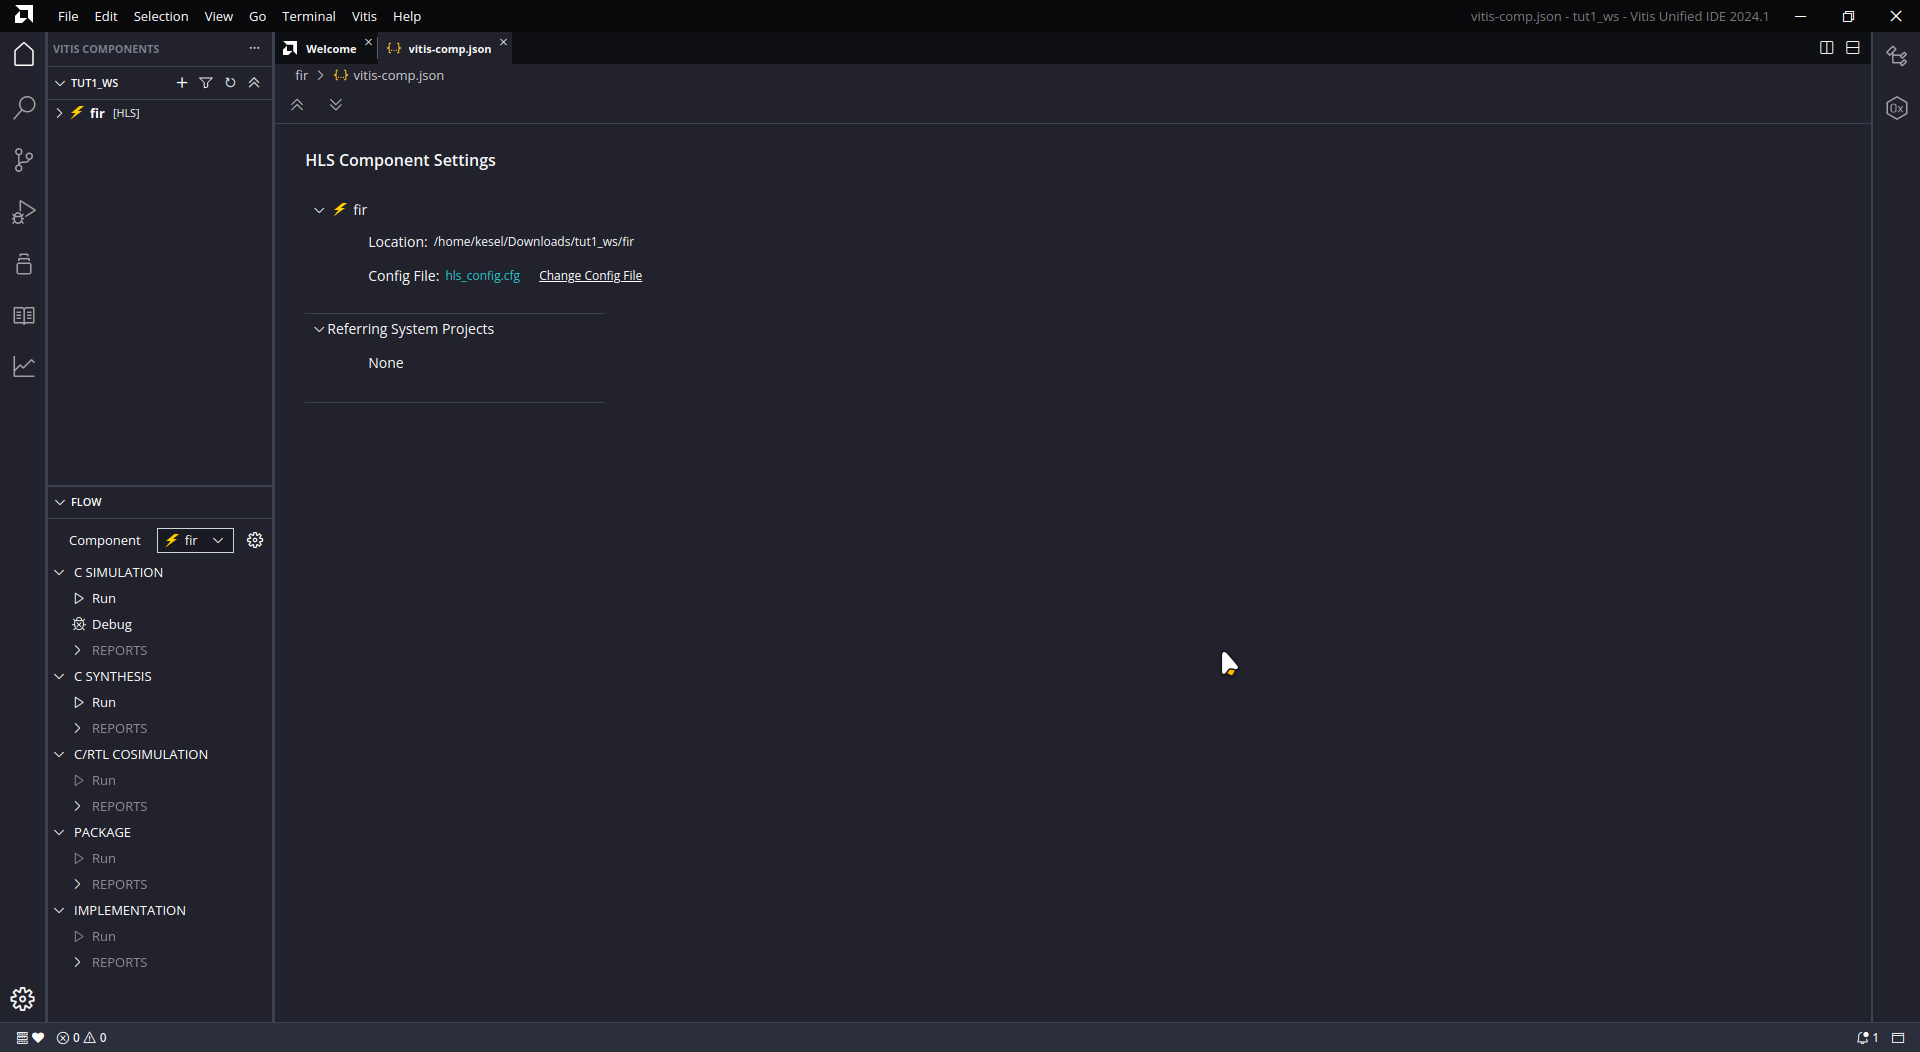
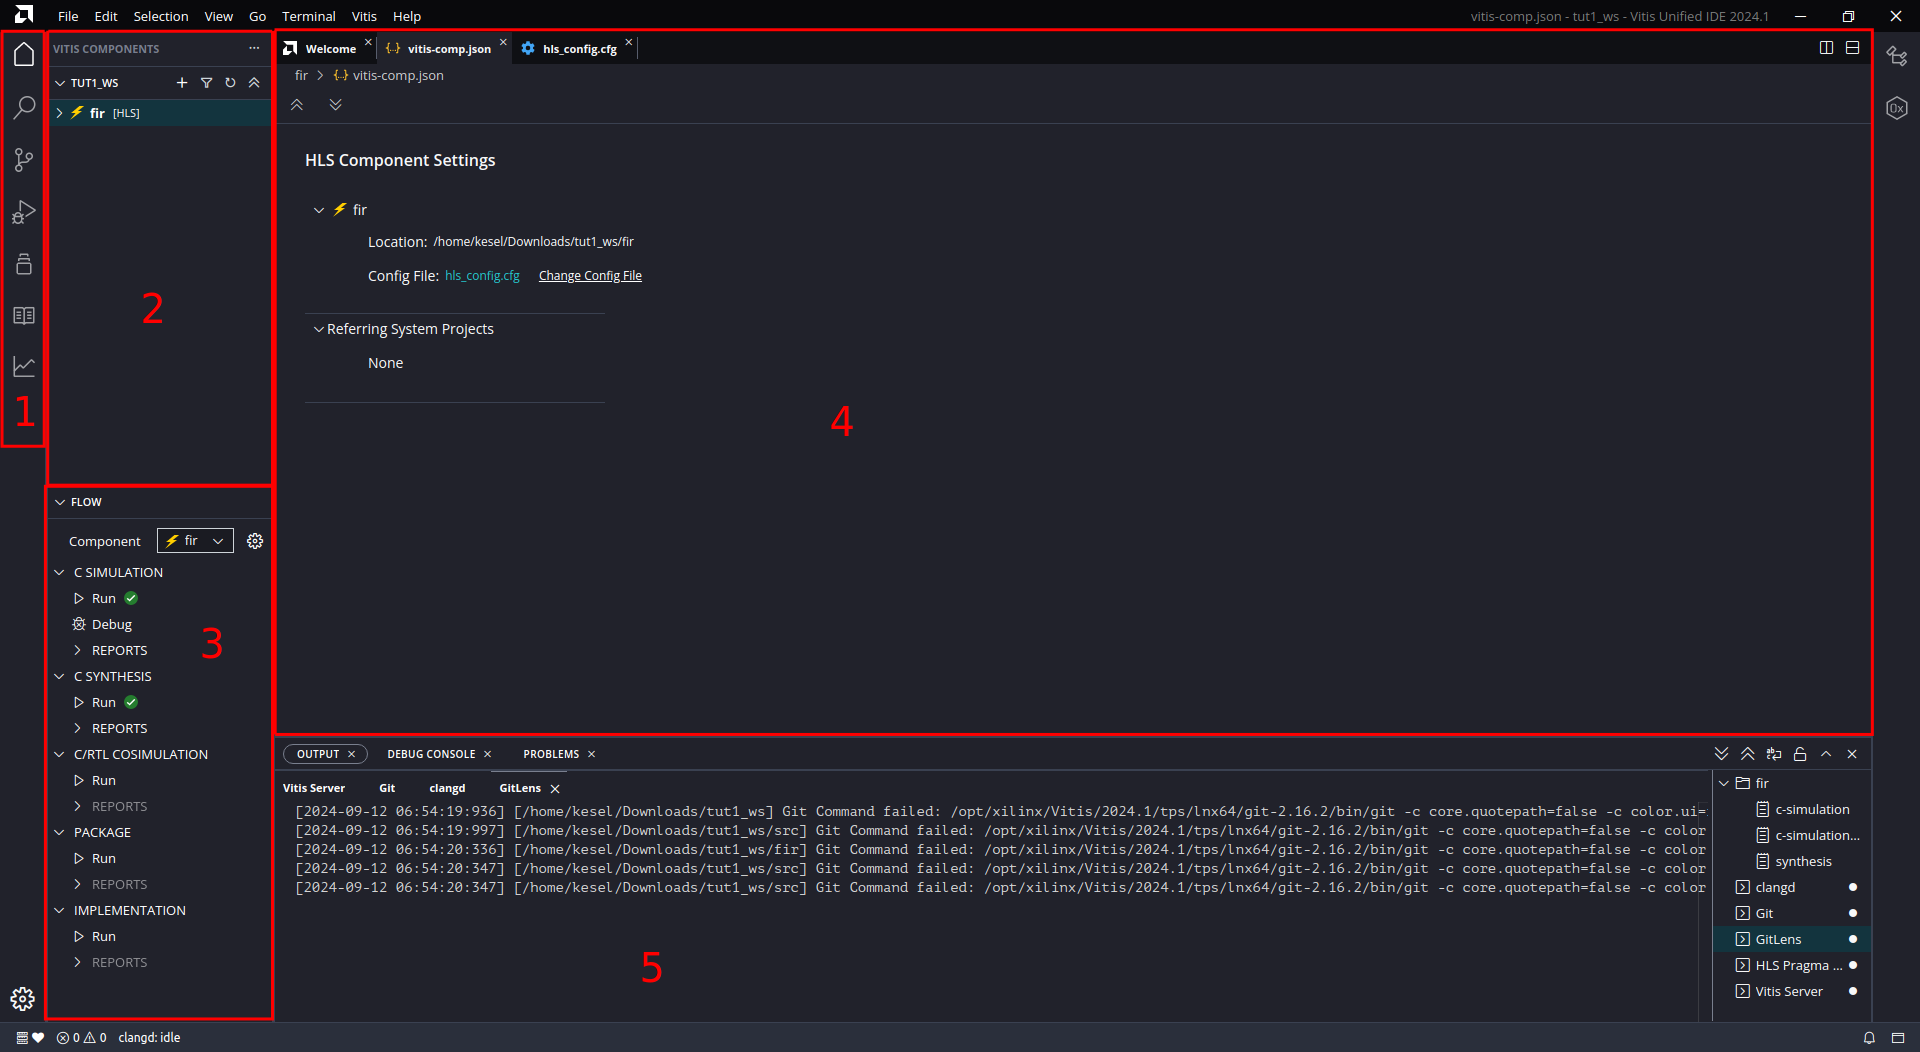
Added content

diff --git a/vitis_hls/tutorial_01/tutorial_01.md b/vitis_hls/tutorial_01/tutorial_01.md
@@ -37,7 +37,7 @@ vitis  -w <workspace>
 ```
 
 * Or you can start the Vitis GUI without a workspace with the command `vitis` on the command line and select an existing workspace in the Vitis GUI.
-* For the tutorial make a folder with the file manager (for example in your home directory) to be used as a workspace and start the Vitis GUI as described above. You should see the Vitis GUI as shown in the following image.
+* For the tutorial make a folder with the file manager (for example in your home directory) to be used as a workspace and start the Vitis GUI as described above. You should see the Vitis GUI as shown in the following image (There are already some recent workspaces in the image which you will not see when you open your Vitis IDE).
 
 ![Vitis GUI](images/hls_01.png)
 
@@ -46,12 +46,12 @@ vitis  -w <workspace>
 
 * With the Vitis IDE opened, from the main menu select `File > New Component > HLS` 
 	* You can also select `Create HLS Component` on the navigation pane on the left side or on the Welcome page in the _HLS Development_ section.
-* This opens the _Choose Name and Location_ page of the _Create HLS Component_ wizard. Enter the component name (`fir`) and location (i.e. the workspace folder) and then push `Next`. The workspace should be the folder which you created as workspace.
+* This opens the _Choose Name and Location_ page of the _Create HLS Component_ wizard, as shown in the image below. Enter the component name (`fir`) and location (i.e. the workspace folder) and then push `Next`. The workspace should be the folder which you created as workspace.
 
 ![Create HLS component](images/hls_02.png)
 
 
-* This opens the Configuration File page of the wizard as shown below. The HLS component configuration file contains commands and directives used for the synthesis, simulation, and export of the component.
+* This opens the _Configuration File_ page of the wizard as shown below. The HLS component configuration file contains commands and directives used for the synthesis, simulation, and export of the component and is _the_ most important file (beside the source code files).
 
 ![Configuration page](images/hls_03.png)
 
@@ -62,7 +62,7 @@ vitis  -w <workspace>
 	* `Generate from Vitis HLS Project`: This option generates a new config file from an existing Vitis HLS project _hls.app_ file. 
 	* Choose `Empty File` as the method of adding the config file to your HLS component, you can keep the name `hls_config` as file name. Select `Next` to proceed to the Source Files.
 * The _Source Files_ page of the wizard opens:
-	* Under _Design Files_ you can select the `Add files` symbol (marked in red in the image below) to select the primary source file for the design, or add multiple files as needed. Copy the `src` folder from the folder `reference_files` to your workspace (with the Linux file manager) and then select the source file `fir.c` with the  `Add files` symbol.
+	* Under _Design Files_ you can select the `Add files` symbol (marked in red in the image below) to select the primary source file for the design, or add multiple files as needed (not for this tutorial). Copy the `src` folder from the folder `reference_files` to your workspace (with the Linux file manager) and then select the source file `fir.c` with the  `Add files` symbol. There is no need to include the header file `fir.h`, Vitis will find it itself.
 	* After adding the source file, you must identify the _Top Function_ which is the function to be synthesized as the top-level function for the HLS component. Push `Browse` and select the function `fir`.
 	* Under _Test Bench Files_ you can select with `Add files` (marked in red) the testbench source code `fir_test.c` and a data file `out.gold.dat` which is needed by the testbench.
  	* For both design files and test bench files you can add CFLAGS and CSIMFLAGS to specify directives to be used during compilation and simulation. You can specify directives to be applied to all files or to specific files from each category. Adding these flags can also be done later on, for this tutorial leave the fields empty. After adding files and folders and directives, select `Next` to proceed.
@@ -75,18 +75,18 @@ vitis  -w <workspace>
 ![Select part page](images/hls_05.png)
 
 
-* This displays the _Settings_ page of the wizard. 
-	* The Settings page lets you specify a clock period or frequency for the design, and a clock uncertainty. The default clock for the tool is a clock period of 10 ns (or 100 MHz), and a clock uncertainty of 27%. In this case enter the default clock frequency but change the uncertainty to 2 ns as shown in the image below.
-	* The Settings page also lets you specify the _flow_target_ for the HLS component build process as being either to generate a Vivado IP or a Vitis kernel as described in [Target Flow Overview](https://docs.amd.com/r/4lwvWeCi9jb~DWzdfWuVQQ/P4DbGaxyPEWYEJfsO7o1Dw) in the Xilinx User Guide. The interface requirements of the Vivado IP or a Vitis kernel are different as explained in [Interfaces of the HLS Design](https://docs.amd.com/r/4lwvWeCi9jb~DWzdfWuVQQ/wEdlxulOAT50bjDEn06U5Q). The default _flow_target_ is the Vivado IP flow. Keep these default settings for this tutorial.
-	* Below the flow_target you can also specify the _package.output.format_ for the tool to generate when packaging the design. The default output format is the Vivado IP, which generates a .zip file to be added to your IP catalog, letting you use the HLS generated RTL design in other designs.
+* You will now see the _Settings_ page of the wizard. 
+	* The _Settings_ page lets you specify a clock period or frequency for the design, and a clock uncertainty. The default clock for the tool is a clock period of 10 ns (or 100 MHz), and a clock uncertainty of 27%. In this case enter the default clock frequency of 10 ns but change the uncertainty to 2 ns as shown in the image below.
+	* The _Settings_ page also lets you specify the _flow_target_ for the HLS component build process as being either to generate a Vivado IP or a Vitis kernel as described in [Target Flow Overview](https://docs.amd.com/r/4lwvWeCi9jb~DWzdfWuVQQ/P4DbGaxyPEWYEJfsO7o1Dw) in the Xilinx User Guide. The interface requirements of the Vivado IP or a Vitis kernel are different as explained in [Interfaces of the HLS Design](https://docs.amd.com/r/4lwvWeCi9jb~DWzdfWuVQQ/wEdlxulOAT50bjDEn06U5Q). The default _flow_target_ is the Vivado IP flow. Keep these default settings for this tutorial.
+	* Below the _flow_target_ you can also specify the _package.output.format_ for the tool to generate when packaging the design. The default output format is the Vivado IP, which generates a zip-file to be added to your IP catalog, letting you use the HLS generated RTL design in other designs.
 	* The data you entered here and above are all stored in the configuration file.
 	* Select `Next` to proceed to the Summary page.
 
 
 ![Settings page](images/hls_06.png)
 
-* The Summary page reflects the choices you have made on the prior pages. Review the summary and select `Finish` to create the HLS component, or select Back to return to earlier pages and change your selections.
-* When the HLS component is created the `vitis-comp.json` file for the component is opened in the central editor window, and the HLS component becomes active in the _Flow Navigator_ (in the lower left pane) as shown below. When the HLS component is the active component, the _Flow Navigator_ enables running C Simulation, C Synthesis, C/RTL Co-simulation, Package, and Implementation.
+* The _Summary_ page reflects the choices you have made on the prior pages. Review the summary and select `Finish` to create the HLS component, or select Back to return to earlier pages and change your selections.
+* When the HLS component is created you will get back to the Vitis IDE with the opened component workspace. Now it is time to explain the Vitis IDE in more detail. In the image below you can see five areas or panes in the IDE, if you are familiar with Visual Studio Code you may notice some similarities. The pane numbered with 1 is the _tool bar_ which allows you to switch between major features of the tool: the _Vitis Component Explorer_ (this is where you are at the moment), the _Search_ function, _Source Control_, the _Debug_ view, _Examples_, and the _Analysis_ view. Pane 2 is the _Vitis Component Explorer_ which can be used to view a virtual hierarchy of the workspace. The view displays the different elements of the component or project, such a sources and outputs folder. It does not show the real folder structure on the file system. In the _Flow Navigator_ in pane 3  you can select the actual component and the tools you can apply to it (C Simulation, C Synthesis C/RTL Cosimulation,  Package and Implementation). Pane 4 is the central editor window where you can edit the sources and view reports etc. Pane 5 is the console and terminal area, which may not be opened if you have not started a tool yet.  
 
 ![Vitis GUI with component](images/hls_07.png)
 
@@ -115,7 +115,7 @@ workspace_dir
 * First open the C sources in Vitis with the _Component Explorer_ and study the code for the component (`fir.c`) and the testbench (`fir_test.c`). In the component code you can see a loop _Shift_Accum_Loop_ which codes the functionality of an FIR filter with a shift register `shift_reg[N]` where the coefficients (argument `c[N]`) are multiplied with the shifted data and accumulated in the variable `acc` and returned via the pointer `y`. It is good practice to give loops a label in order to be able to identify them during analysis of the HLS synthesis results.  
 * The testbench (`fir_test.c`) defines the coefficients for the FIR filter in the variable `taps[N]`. In line 18 the file `out.gold.dat` is opened which contains the input data and the expected output data for comparison. In the loop the input and reference data is read and the component top level function is called in line 26. Finally the output data generated by the component is compared and an error flag is set, if there are discrepancies. An HLS testbench, i.e. the main function, needs to return a value, which is 0 in case of success and 1 if the output data of the component is not correct. This is important because the C/RTL Co-Simulation uses the same testbench and also checks the output of the generated VHDL or Verilog code against the reference data. This means that an HLS testbench always must be written in such a way that it is self-checking and generates a final pass (0) or fail (1) value as return value.
 * Run the C Simulation by pushing the `Run` button in the _Flow Navigator_ under `C Simulation`. A window will pop up and ask you if you want to enable the _Code Analyzer_, you can disable this feature for this tutorial. After simulation is completed you will see the output of the simulation below the editor window in the console area.  
-* If you write yourself code you may want to use a debugger by pushing the `Debug` button instead of `Run`. Vitis now starts the debugger as shown in the image below. Here you have the standard debugger functions like _Continue_, _Step Over_, _Step Into_ etc. (marked in red). You can also watch the variables (marked in red) or set break points in the source code editor. It is very similar in functionality to Visual Studio Code and in fact the whole Vitis IDE is very similar to VS Code, so if you have worked with VS Code you should soon be familiar with Vitis. 
+* If you write yourself code you may want to use a debugger by pushing the `Debug` button instead of `Run`. Vitis now starts the debugger as shown in the image below. Here you have the standard debugger functions like _Continue_, _Step Over_, _Step Into_ etc. (marked in red). You can also watch the variables (marked in red) or set break points in the source code editor. It is very similar in functionality to the debugger in Visual Studio Code. 
 * If you want to stop the debugger then push the red square button (`Stop`). In order to come back to the normal Vitis view, which you had before you started debugging, you have to push in the tool bar (most left pane) the _Vitis Components_ symbol (marked in green).
 
 ![Debug code](images/hls_09.png)
